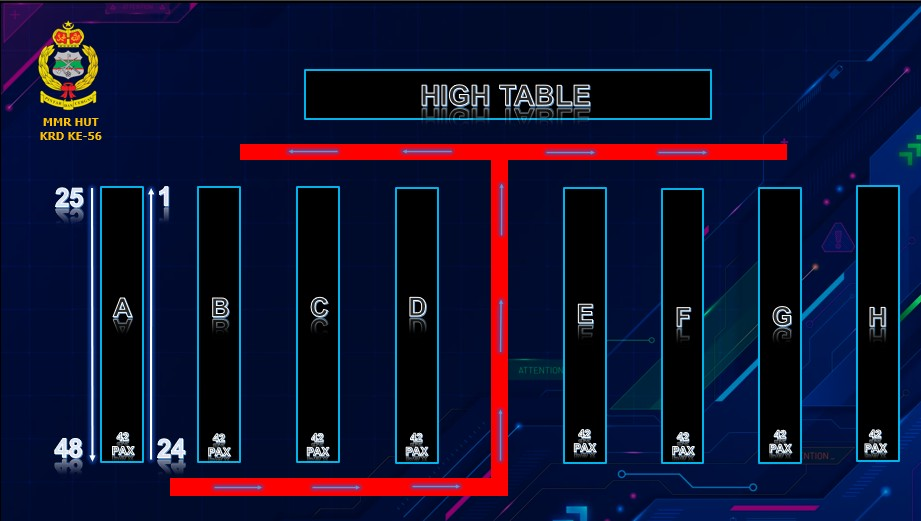
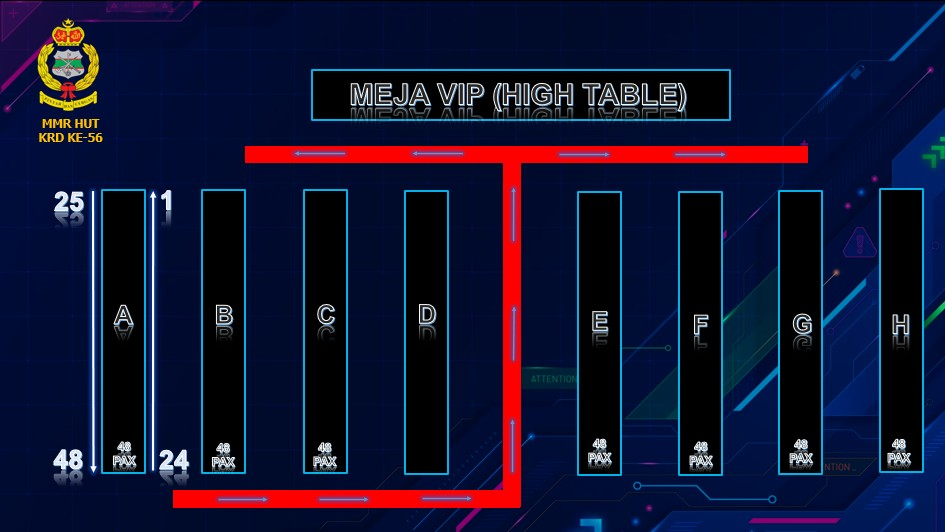
Update data

diff --git a/public/style.css b/public/style.css
@@ -95,14 +95,94 @@ header img {
 /* =========================================================
    5⃣ RESULTS / DATA BOX
    ========================================================= */
+/* === Futuristic Data Box === */
 .data-box {
+  background: rgba(10, 15, 25, 0.8); /* Dark holographic panel */
+  border: 1.5px solid #0ff; /* Neon cyan outline */
+  border-radius: 12px;
+  padding: 20px;
   margin-top: 20px;
-  padding: 10px;
-  border-radius: 10px;
-  background-color: #0e0e0e;
-  box-shadow: 0 0 10px #00ffff33;
-  color: #fff;
+  box-shadow: 
+    0 0 12px #0ff8, 
+    inset 0 0 20px rgba(0, 255, 255, 0.05); /* Inner glow */
+  backdrop-filter: blur(8px); /* Glass effect */
+  transition: all 0.3s ease;
 }
+
+.data-box:hover {
+  box-shadow: 
+    0 0 18px #0ff, 
+    inset 0 0 25px rgba(0, 255, 255, 0.08);
+  transform: translateY(-2px);
+}
+
+/* === Guest Table === */
+.guest-table {
+  width: 100%;
+  max-width: 650px;
+  margin: 25px auto;
+  border-collapse: collapse;
+  background: rgba(15, 20, 35, 0.85); /* Deep tech panel */
+  border: 1px solid rgba(0, 255, 255, 0.4);
+  border-radius: 14px;
+  overflow: hidden;
+  table-layout: fixed;
+  box-shadow:
+    0 0 20px rgba(0, 255, 255, 0.25),
+    inset 0 0 20px rgba(0, 255, 255, 0.05);
+  backdrop-filter: blur(6px);
+  transition: 0.3s ease;
+}
+
+.guest-table:hover {
+  box-shadow:
+    0 0 30px rgba(0, 255, 255, 0.4),
+    inset 0 0 25px rgba(0, 255, 255, 0.1);
+}
+
+/* === Table Cells === */
+.guest-table th,
+.guest-table td {
+  width: 50%;
+  padding: 12px 16px;
+  border: 1px solid rgba(0, 255, 255, 0.2);
+  color: #0ff;
+  text-shadow: 0 0 6px #0ff9;
+  font-family: 'Orbitron', sans-serif;
+  font-size: 16px;
+  letter-spacing: 1px;
+  word-wrap: break-word; /* handles long names */
+}
+
+.guest-table th {
+  background: linear-gradient(90deg, #00111a, #00222c);
+  font-family: 'Orbitron', sans-serif;
+  font-size: 16px;
+  text-transform: uppercase;
+  letter-spacing: 1px;
+  border-bottom: 2px solid #0ff;
+}
+
+.guest-table td {
+  background: rgba(0, 15, 25, 0.7);
+  font-family: 'Rajdhani', sans-serif;
+  font-size: 15px;
+}
+
+/* === Row Hover Effect === */
+.guest-table tr:hover td {
+  background: rgba(0, 255, 255, 0.1);
+  color: #fff;
+  text-shadow: 0 0 10px #0ff;
+  transition: all 0.3s ease;
+}
+
+/* === Subtle Animation on Hover === */
+.guest-table th,
+.guest-table td {
+  transition: background 0.3s, color 0.3s, text-shadow 0.3s;
+}
+
 
 /* =========================================================
    6⃣ MENU TAGS
